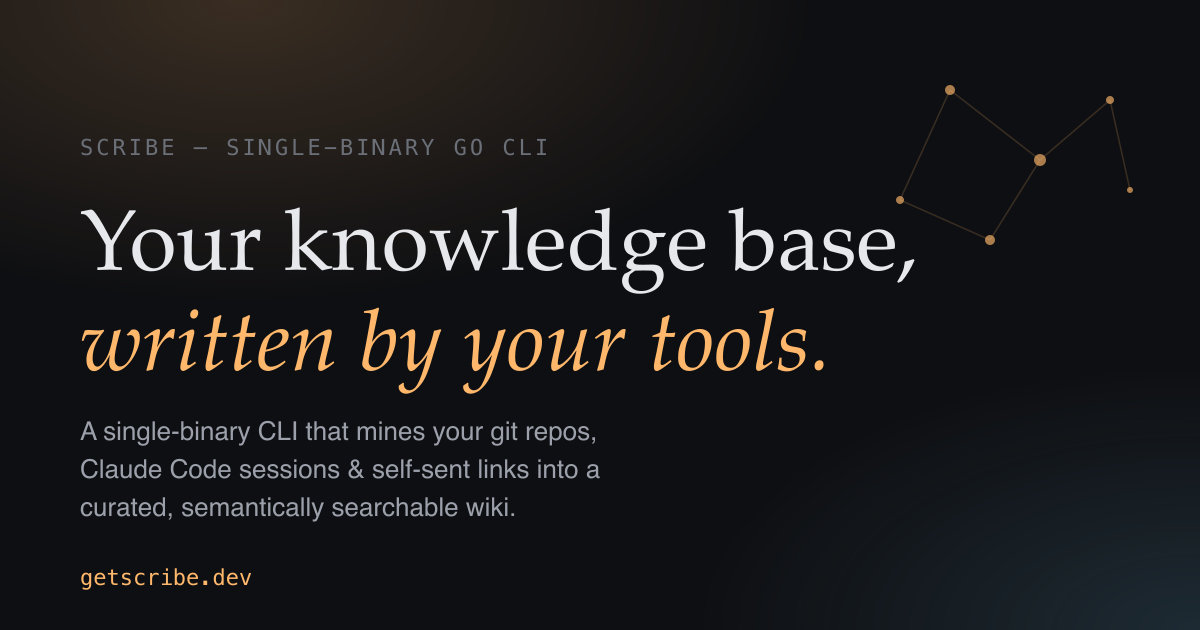
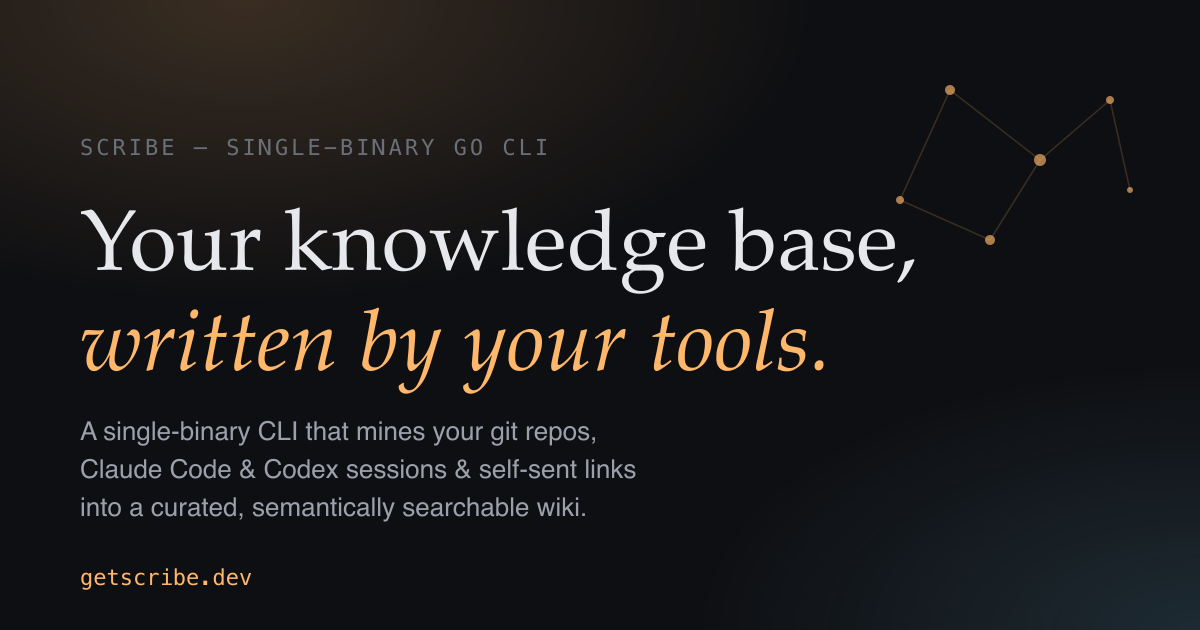
feat(site): sync to full Codex support (discovery + handshake + session mining) — evergreen, no version pins
0.2.22 added Codex session mining: Codex CLI rollouts are now distilled
into the KB via the same triage→envelope→wiki path Claude Code sessions
get (opt-in). The site framed Codex as discovery + handshake only —
updated the hero lede, Capture stream, comparison table, the
"what is scribe" / cron-schedule / auto-extract FAQ entries (visible
+ JSON-LD), and the og.png card to state full, present-tense Codex
support without overclaiming (mining is opt-in, not ccrider-based).
0.2.23 is internal hardening — no surface copy. Freshness dates →
2026-05-16. Deployed: Cloudflare 9e401537; live-verified zero pins.

Changed region(s): [[0.0617, 0.7238, 0.5242, 0.8444]]

diff --git a/site/public/index.html b/site/public/index.html
@@ -36,7 +36,7 @@
        steps, the FAQ for direct Q→A lookup, and freshness via the
        Article wrapper. -->
   <meta name="article:published_time" content="2026-04-21T00:00:00Z" />
-  <meta name="article:modified_time" content="2026-05-15T00:00:00Z" />
+  <meta name="article:modified_time" content="2026-05-16T00:00:00Z" />
   <script type="application/ld+json">
   {
     "@context": "https://schema.org",
@@ -65,7 +65,7 @@
         "description": "Overview of scribe: a CLI that builds a personal knowledge base from git repos, Claude Code sessions, and self-sent URLs. Cross-project, cron-driven, runs fully local on Ollama.",
         "url": "https://getscribe.dev/",
         "datePublished": "2026-04-21",
-        "dateModified": "2026-05-15",
+        "dateModified": "2026-05-16",
         "image": "https://getscribe.dev/og.png",
         "author": { "@type": "Person", "name": "Oliver Kriska" },
         "publisher": { "@type": "Person", "name": "Oliver Kriska" },
@@ -100,7 +100,7 @@
             "name": "What is scribe?",
             "acceptedAnswer": {
               "@type": "Answer",
-              "text": "Scribe is a single-binary Go CLI that builds a personal, LLM-written knowledge base from your existing work. It mines your git repos, Claude Code sessions (via ccrider's FTS5 index), and URLs you text yourself, then compiles a curated wiki of decisions, patterns, learnings, and tool evaluations indexed by qmd for semantic search. The whole pipeline runs on cron — set up once, then go back to working."
+              "text": "Scribe is a single-binary Go CLI that builds a personal, LLM-written knowledge base from your existing work. It mines your git repos, Claude Code sessions (via ccrider's FTS5 index) and Codex CLI rollouts, and URLs you text yourself, then compiles a curated wiki of decisions, patterns, learnings, and tool evaluations indexed by qmd for semantic search. The whole pipeline runs on cron — set up once, then go back to working."
             }
           },
           {
@@ -148,7 +148,7 @@
             "name": "How does scribe automatically extract knowledge from existing projects?",
             "acceptedAnswer": {
               "@type": "Answer",
-              "text": "Scribe walks both ~/.claude/projects/ (Claude Code) and ~/.codex/sessions/ (Codex CLI) to auto-discover every codebase you've opened in either agent. Cross-agent projects collapse to a single manifest entry tagged discovered_from: both. scribe init writes a handshake block into both ~/.claude/CLAUDE.md and ~/.codex/AGENTS.md, telling every Claude Code and Codex session to query your KB before decisions and drop reusable lessons into .claude/<your-kb-name>/YYYY-MM-DD-{slug}.md inside the current project — the same shared drop location for both agents. Every 2 hours scribe sync sweeps those drop files plus any .claude/research/**/*.md notes, runs them through the two-pass absorb, commits the result to your private KB repo, and reindexes qmd so the next agent session can serve them — closing the loop."
+              "text": "Scribe walks both ~/.claude/projects/ (Claude Code) and ~/.codex/sessions/ (Codex CLI) to auto-discover every codebase you've opened in either agent. Cross-agent projects collapse to a single manifest entry tagged discovered_from: both. scribe init writes a handshake block into both ~/.claude/CLAUDE.md and ~/.codex/AGENTS.md, telling every Claude Code and Codex session to query your KB before decisions and drop reusable lessons into .claude/<your-kb-name>/YYYY-MM-DD-{slug}.md inside the current project — the same shared drop location for both agents. Every 2 hours scribe sync sweeps those drop files plus any .claude/research/**/*.md notes, runs them through the two-pass absorb, commits the result to your private KB repo, and reindexes qmd so the next agent session can serve them — closing the loop. Codex CLI sessions are also distilled directly into the KB (opt-in), the same triage→absorb path Claude Code sessions get via ccrider — so Codex is fully supported, not discovery-only."
             }
           },
           {
@@ -164,7 +164,7 @@
             "name": "What does the cron schedule look like?",
             "acceptedAnswer": {
               "@type": "Answer",
-              "text": "Hourly KB auto-commit, every 2 hours scan git repos for new decisions and patterns, three times a day mine Claude Code sessions via ccrider, every 30 minutes drain queued URLs, every 4 hours pull self-iMessaged links, weekly Dream cycle on Sunday for memory consolidation, plus a continuous fsnotify watcher on the ccrider DB for near-real-time session extraction."
+              "text": "Hourly KB auto-commit, every 2 hours scan git repos for new decisions and patterns, three times a day mine Claude Code sessions via ccrider, Codex CLI sessions inside the 2-hourly sync when opted in, every 30 minutes drain queued URLs, every 4 hours pull self-iMessaged links, weekly Dream cycle on Sunday for memory consolidation, plus a continuous fsnotify watcher on the ccrider DB for near-real-time session extraction."
             }
           }
         ]
@@ -633,8 +633,8 @@
       <h1>Your knowledge base,<br/><span class="accent">written by your tools.</span></h1>
       <p class="lede">
         scribe is a personal, LLM-written knowledge base that grows itself. It
-        mines your git repos, Claude Code sessions, and self-sent links — and
-        auto-discovers projects from both Claude Code and Codex — then compiles
+        mines your git repos, Claude Code and Codex sessions, and self-sent
+        links — auto-discovering projects across both agents — then compiles
         a curated, semantically searchable wiki: cross-project, cron-driven, and
         running 100% on local Ollama with zero API spend.
       </p>
@@ -694,7 +694,7 @@
           <h3><span class="num">01</span>Capture</h3>
           <p>Four input streams, all running on cron with no human in the loop.</p>
           <div class="src">
-            git repos · Claude Code sessions (via ccrider's FTS5 index) · iMessage self-chat URLs · drop files
+            git repos · Claude Code &amp; Codex sessions · iMessage self-chat URLs · drop files
           </div>
         </div>
         <div class="stage">
@@ -1087,7 +1087,7 @@ llm:
         <tbody>
           <tr class="scribe">
             <td>scribe</td>
-            <td class="yes">✓ ccrider FTS5</td>
+            <td class="yes">✓ Claude + Codex</td>
             <td class="yes">✓ LaunchAgents</td>
             <td class="yes">✓ BM25 triage</td>
             <td class="yes">✓ fan-out</td>
@@ -1192,7 +1192,7 @@ llm:
 
       <dl class="faq">
         <dt>What is scribe?</dt>
-        <dd>Scribe is a single-binary Go CLI that builds a personal, LLM-written knowledge base from your existing work. It mines your git repos, Claude Code sessions (via ccrider's FTS5 index), and URLs you text yourself, then compiles a curated wiki of decisions, patterns, learnings, and tool evaluations indexed by <code>qmd</code> for semantic search. The whole pipeline runs on cron — set up once, then go back to working.</dd>
+        <dd>Scribe is a single-binary Go CLI that builds a personal, LLM-written knowledge base from your existing work. It mines your git repos, Claude Code sessions (via ccrider's FTS5 index) and Codex CLI rollouts, and URLs you text yourself, then compiles a curated wiki of decisions, patterns, learnings, and tool evaluations indexed by <code>qmd</code> for semantic search. The whole pipeline runs on cron — set up once, then go back to working.</dd>
 
         <dt>How is scribe different from RAG, Obsidian, or claude-memory-compiler?</dt>
         <dd>RAG stores chunks with no curation layer. Obsidian and Notion expect you to write the notes yourself. <code>claude-memory-compiler</code> runs an LLM call on every Claude Code session — one user burned $115 in 20 minutes (issue #3). Scribe sits between them: it watches your work and writes the notes for you, but uses BM25 keyword density to skip boilerplate sessions <em>before</em> any LLM call, so cheap sessions cost nothing.</dd>
@@ -1210,13 +1210,13 @@ llm:
         <dd>In a plain git repo of markdown files at whatever path you pass to <code>scribe init</code>. Push it to your own GitHub, Gitea, or Forgejo — there's no SaaS account, no cloud sync, and no vendor lock-in. Open it in Obsidian, VS Code, <code>vim</code>, or <code>mdbook</code>. If scribe disappears tomorrow, you still have the KB.</dd>
 
         <dt>How does scribe automatically extract knowledge from existing projects?</dt>
-        <dd>Scribe walks both <code>~/.claude/projects/</code> (Claude Code) and <code>~/.codex/sessions/</code> (Codex CLI) to auto-discover every codebase you've opened in either agent. Cross-agent projects collapse to a single manifest entry tagged <code>discovered_from: both</code>. <code>scribe init</code> writes a handshake block into <strong>both</strong> <code>~/.claude/CLAUDE.md</code> and <code>~/.codex/AGENTS.md</code>, telling every Claude Code and Codex session to query your KB before decisions and drop reusable lessons into <code>.claude/&lt;your-kb-name&gt;/YYYY-MM-DD-{slug}.md</code> inside the current project — the same shared drop location for both agents. Every 2 hours <code>scribe sync</code> sweeps those drop files plus any <code>.claude/research/**/*.md</code> notes, runs them through the two-pass absorb, commits the result to your private KB repo, and reindexes <code>qmd</code> so the next agent session can serve them — closing the loop.</dd>
+        <dd>Scribe walks both <code>~/.claude/projects/</code> (Claude Code) and <code>~/.codex/sessions/</code> (Codex CLI) to auto-discover every codebase you've opened in either agent. Cross-agent projects collapse to a single manifest entry tagged <code>discovered_from: both</code>. <code>scribe init</code> writes a handshake block into <strong>both</strong> <code>~/.claude/CLAUDE.md</code> and <code>~/.codex/AGENTS.md</code>, telling every Claude Code and Codex session to query your KB before decisions and drop reusable lessons into <code>.claude/&lt;your-kb-name&gt;/YYYY-MM-DD-{slug}.md</code> inside the current project — the same shared drop location for both agents. Every 2 hours <code>scribe sync</code> sweeps those drop files plus any <code>.claude/research/**/*.md</code> notes, runs them through the two-pass absorb, commits the result to your private KB repo, and reindexes <code>qmd</code> so the next agent session can serve them — closing the loop. Codex CLI sessions are also distilled directly into the KB (opt-in), the same triage→absorb path Claude Code sessions get via ccrider — so Codex is fully supported, not discovery-only.</dd>
 
         <dt>Does scribe push to a remote git repo on its own?</dt>
         <dd>Yes. <code>scribe commit</code> runs hourly via cron. It stages every change scribe has produced, builds a structured commit message, and runs <code>git push</code> to your origin (your own GitHub, Gitea, or Forgejo — no scribe-hosted backend). On non-fast-forward it runs <code>git pull --rebase</code> and retries once. Force-push is never attempted. The KB stays in sync without you opening a terminal.</dd>
 
         <dt>What does the cron schedule look like?</dt>
-        <dd>Hourly KB auto-commit, every 2 hours scan git repos for new decisions and patterns, three times a day mine Claude Code sessions via ccrider, every 30 minutes drain queued URLs, every 4 hours pull self-iMessaged links, weekly Dream cycle on Sunday for memory consolidation, plus a continuous fsnotify watcher on the ccrider DB for near-real-time session extraction.</dd>
+        <dd>Hourly KB auto-commit, every 2 hours scan git repos for new decisions and patterns, three times a day mine Claude Code sessions via ccrider, Codex CLI sessions inside the 2-hourly sync when opted in, every 30 minutes drain queued URLs, every 4 hours pull self-iMessaged links, weekly Dream cycle on Sunday for memory consolidation, plus a continuous fsnotify watcher on the ccrider DB for near-real-time session extraction.</dd>
       </dl>
     </div>
   </section>

diff --git a/site/public/index.md b/site/public/index.md
@@ -1,6 +1,6 @@
 # scribe — your knowledge base, written by your tools
 
-> A single-binary CLI that turns your git repos, Claude Code sessions, and self-sent links into a curated, semantically searchable knowledge base. Auto-discovers projects from both Claude Code and Codex, and both agents get the same query-KB + write-drop-files handshake. Cross-project, cron-driven, runs 100% on local Ollama with zero API spend.
+> A single-binary CLI that turns your git repos, Claude Code and Codex sessions, and self-sent links into a curated, semantically searchable knowledge base. Auto-discovers projects from both Claude Code and Codex, and both agents get the same query-KB + write-drop-files handshake. Cross-project, cron-driven, runs 100% on local Ollama with zero API spend.
 
 **License:** MIT · **Repo:** <https://github.com/oliver-kriska/scribe> · **Maintainer's KB:** 3,445 articles, zero typed by hand
 
@@ -8,13 +8,13 @@
 
 ## What scribe is
 
-scribe is an LLM-written knowledge base pipeline. It mines four input streams — git repos, Claude Code sessions (via ccrider's FTS5 index), URLs you text yourself, and drop files from other projects — then compiles a curated wiki of decisions, patterns, learnings, tool evaluations, and research. The wiki is plain markdown with YAML frontmatter, indexed by `qmd` for semantic search.
+scribe is an LLM-written knowledge base pipeline. It mines four input streams — git repos, agent sessions (Claude Code via ccrider's FTS5 index, Codex CLI rollouts), URLs you text yourself, and drop files from other projects — then compiles a curated wiki of decisions, patterns, learnings, tool evaluations, and research. The wiki is plain markdown with YAML frontmatter, indexed by `qmd` for semantic search.
 
 scribe is not a RAG pipeline. It keeps raw sources verbatim under `raw/` AND compiles a structural wiki on top — both layers are searchable. Dense sources fan out into multiple entity-first wiki pages via a two-pass absorb (not one summary per source). LLM-generated retrieval-context paragraphs get spliced into every article so embedding models catch implicit entities.
 
 ## How it works
 
-1. **Capture** — four input streams, all on cron: git repos, Claude Code sessions via ccrider's FTS5 index, iMessage self-chat URLs, drop files.
+1. **Capture** — four input streams, all on cron: git repos, Claude Code & Codex sessions, iMessage self-chat URLs, drop files.
 2. **Triage** — BM25 keyword density scoring rejects boilerplate sessions before any LLM call. Cheap sessions cost nothing.
 3. **Absorb** — two-pass extraction. Pass 1 grounds atomic facts; pass 2 fans dense sources into multiple entity-first wiki pages.
 4. **Compile + index** — auto-generated wikilinks, backlinks JSON, retrieval-context paragraphs spliced into every article. `qmd` reindexes.
@@ -88,7 +88,7 @@ qmd query "how did I solve the oban idempotency bug last quarter"
 
 | Tool | Session mining | Cron-driven | Density pre-filter | Two-pass absorb | Multi-project | Local-mode |
 |---|---|---|---|---|---|---|
-| **scribe** | yes (ccrider FTS5) | yes (LaunchAgents) | yes (BM25 triage) | yes (fan-out) | yes | yes (Ollama / llama.cpp) |
+| **scribe** | yes (Claude ccrider + Codex) | yes (LaunchAgents) | yes (BM25 triage) | yes (fan-out) | yes | yes (Ollama / llama.cpp) |
 | claude-memory-compiler | every session, no filter | opportunistic | no ($115/20min, issue #3) | no | no | no |
 | nvk/llm-wiki | no | one-shot `/wiki:assess` | n/a | no | no | no |
 | basic-memory | no (issue #669 since Mar) | cron suggested | n/a | no | yes (projects) | no |
@@ -98,7 +98,7 @@ qmd query "how did I solve the oban idempotency bug last quarter"
 ## Common questions
 
 **What is scribe?**
-A single-binary Go CLI that builds a personal, LLM-written knowledge base from your git repos, Claude Code sessions, and self-sent URLs. The pipeline runs on cron — set up once with `scribe init` + `scribe cron install`.
+A single-binary Go CLI that builds a personal, LLM-written knowledge base from your git repos, Claude Code and Codex sessions, and self-sent URLs. The pipeline runs on cron — set up once with `scribe init` + `scribe cron install`.
 
 **How is scribe different from RAG, Obsidian, or claude-memory-compiler?**
 RAG stores chunks with no curation layer. Obsidian and Notion expect you to write the notes yourself. claude-memory-compiler runs an LLM call on every Claude Code session — one user burned $115 in 20 minutes (issue #3). Scribe sits between them: it watches your work and writes the notes for you, but uses BM25 keyword density to skip boilerplate sessions before any LLM call, so cheap sessions cost nothing.
@@ -116,10 +116,10 @@ Yes. macOS gets LaunchAgents via `scribe cron install`; Linux gets paste-ready c
 In a plain git repo of markdown files at whatever path you pass to `scribe init`. Push it to your own GitHub, Gitea, or Forgejo — there's no SaaS account, no cloud sync, no vendor lock-in. Open it in Obsidian, VS Code, vim, or mdbook.
 
 **What does the cron schedule look like?**
-Hourly KB auto-commit, every 2 hours scan git repos for new decisions and patterns, three times a day mine Claude Code sessions, every 30 minutes drain queued URLs, every 4 hours pull self-iMessaged links, weekly Dream cycle on Sunday for memory consolidation, plus a continuous fsnotify watcher on the ccrider DB for near-real-time session extraction.
+Hourly KB auto-commit, every 2 hours scan git repos for new decisions and patterns, three times a day mine Claude Code sessions via ccrider, Codex CLI sessions inside the 2-hourly sync when opted in, every 30 minutes drain queued URLs, every 4 hours pull self-iMessaged links, weekly Dream cycle on Sunday for memory consolidation, plus a continuous fsnotify watcher on the ccrider DB for near-real-time session extraction.
 
 ---
 
 **License:** MIT
 **Source:** <https://github.com/oliver-kriska/scribe>
-**Last updated:** 2026-05-15
+**Last updated:** 2026-05-16